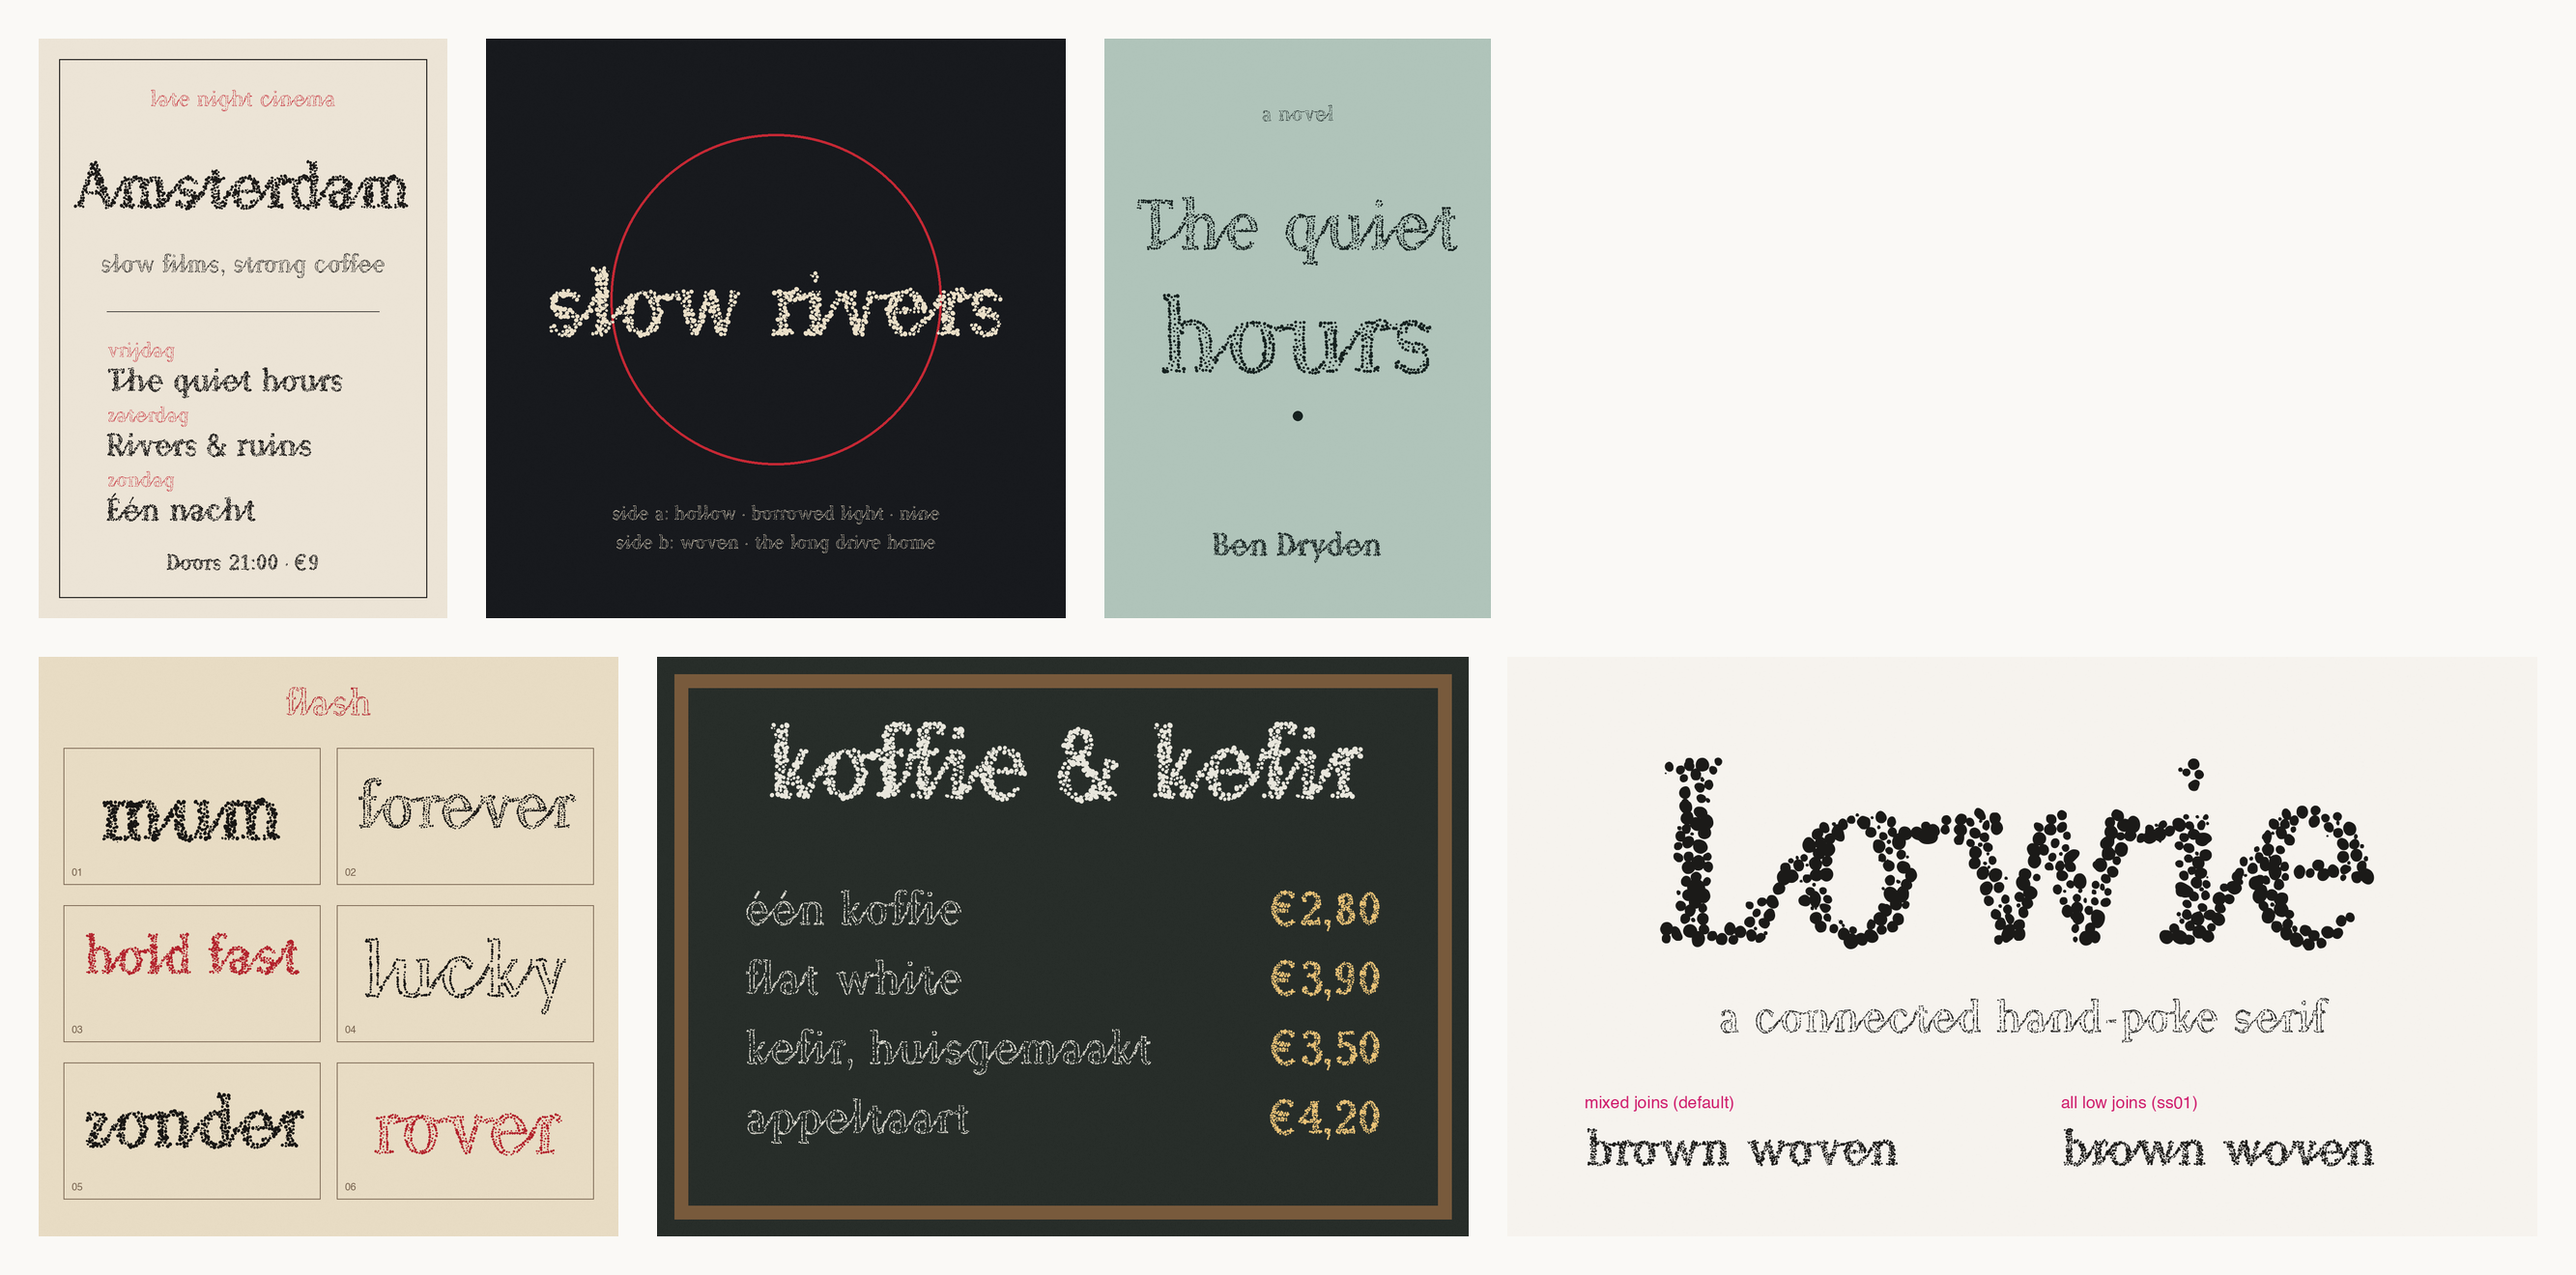
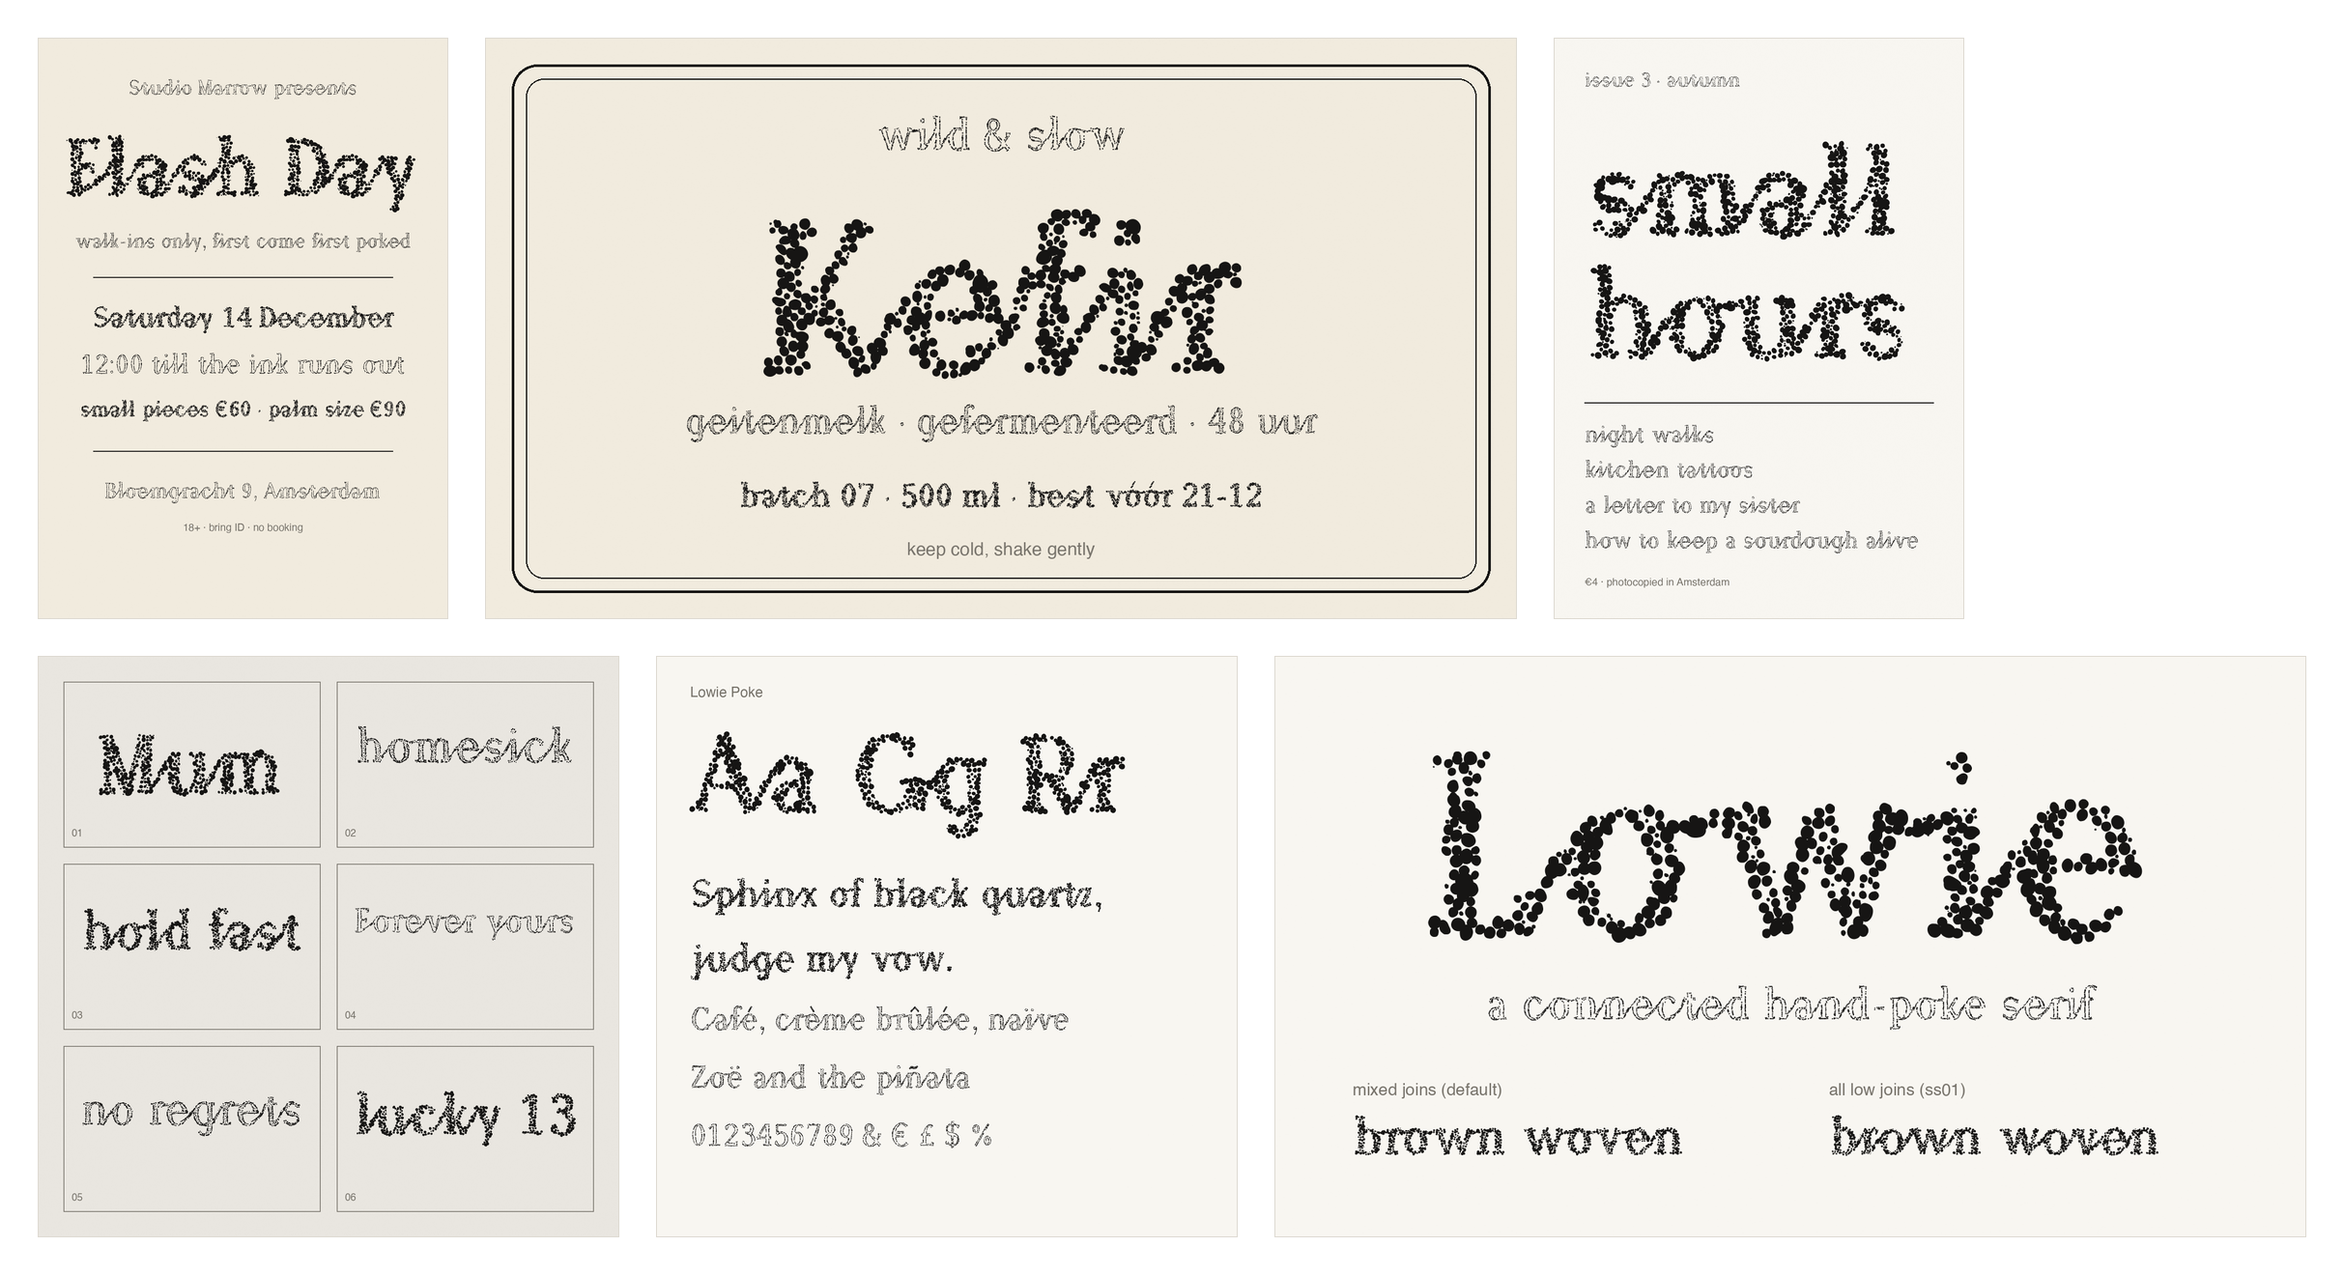
New demos and a light-only site
Demos are now black ink on light paper: a flash day poster, a flash
sheet, a zine cover, a kefir label, a specimen card and the joins card.
The site drops its dark mode and always shows black on warm white.

diff --git a/release/site/index.html b/release/site/index.html
@@ -9,8 +9,7 @@
 @font-face { font-family: "Lowie Poke"; src: url("fonts/Lowie-Poke.woff2") format("woff2"); font-display: swap; }
 @font-face { font-family: "Lowie Poke Shaded"; src: url("fonts/Lowie-PokeShaded.woff2") format("woff2"); font-display: swap; }
 @font-face { font-family: "Lowie Poke Line"; src: url("fonts/Lowie-PokeLine.woff2") format("woff2"); font-display: swap; }
-:root { --paper: #f1ebe0; --ink: #1c1a17; --muted: #6d655a; --red: #b8282f; --line: #d6ccbb; }
-@media (prefers-color-scheme: dark) { :root { --paper: #191816; --ink: #ece4d4; --muted: #9a917f; --red: #e0545a; --line: #34312b; } }
+:root { --paper: #f8f6f1; --ink: #161514; --muted: #6d675e; --red: #161514; --line: #dedad2; color-scheme: light; }
 * { box-sizing: border-box; }
 body { font-synthesis: none; margin: 0; background: var(--paper); color: var(--ink); font: 16px/1.5 ui-sans-serif, system-ui, -apple-system, sans-serif; }
 main { max-width: 1100px; margin: 0 auto; padding: 0 16px 80px; }
@@ -78,7 +77,7 @@ footer a { color: inherit; }
 
 <section>
   <h2>In use</h2>
-  <img src="demos-sheet.png" alt="Lowie on a cinema poster, a record sleeve, a book cover, a tattoo flash sheet, a café board and its own wordmark" loading="lazy">
+  <img src="demos-sheet.png" alt="Lowie on a flash day poster, a kefir label, a zine cover, a tattoo flash sheet, a specimen card and its own wordmark" loading="lazy">
 </section>
 
 <section>

diff --git a/source/demos.py b/source/demos.py
@@ -1,6 +1,8 @@
-"""Mock-ups of Lowie Poke in use. Writes PNGs to ../proofs/demos/."""
+"""Mock-ups of Lowie in use: black ink on light paper. Writes PNGs to ../proofs/demos/.
+
+All names, places and events are made up."""
 from pathlib import Path
-from PIL import Image, ImageDraw, ImageFont, ImageFilter
+from PIL import Image, ImageDraw, ImageFont
 import random
 
 ROOT = Path(__file__).parent.parent
@@ -8,139 +10,145 @@ OUT = ROOT / "proofs" / "demos"
 OUT.mkdir(parents=True, exist_ok=True)
 SANS = "/System/Library/Fonts/Helvetica.ttc"
 
+INK = (22, 21, 20)
+GREY = (120, 116, 108)
+WHITE, CREAM, BONE = (248, 246, 241), (241, 235, 222), (233, 230, 224)
+
 
 def font(style, size):
     return ImageFont.truetype(str(ROOT / "fonts" / f"Lowie-Proto-{style}.ttf"), size,
                               layout_engine=ImageFont.Layout.RAQM)
 
 
-def fit(d, text, style, max_w, start):
+def sans(size):
+    return ImageFont.truetype(SANS, size)
+
+
+def fit(d, text, style, max_w, start, features=None):
     size = start
     while size > 20:
         f = font(style, size)
-        if d.textlength(text, font=f) <= max_w:
+        if d.textlength(text, font=f, features=features) <= max_w:
             return f
         size -= 4
     return font(style, size)
 
 
-def centre(d, y, text, f, fill, W, features=None):
+def centre(d, y, text, f, W, fill=INK, features=None):
     w = d.textlength(text, font=f, features=features)
     d.text(((W - w) / 2, y), text, font=f, fill=fill, features=features)
 
 
-def paper(W, H, colour, grain=10, seed=1):
+def paper(W, H, colour, grain=8, seed=1):
     """Flat colour with a little noise so it reads as printed stock."""
     rnd = random.Random(seed)
     img = Image.new("RGB", (W, H), colour)
     noise = Image.effect_noise((W, H), grain).convert("L")
-    tint = Image.new("RGB", (W, H), tuple(max(0, c - 18) for c in colour))
-    img = Image.composite(tint, img, noise.point(lambda v: 40 if v > 140 + rnd.random() else 0))
-    return img
+    tint = Image.new("RGB", (W, H), tuple(max(0, c - 14) for c in colour))
+    return Image.composite(tint, img, noise.point(lambda v: 36 if v > 140 + rnd.random() else 0))
 
 
-def poster():
+def flash_day():
+    """Poster for a studio flash day."""
     W, H = 1200, 1700
-    img = paper(W, H, (236, 228, 214))
+    img = paper(W, H, CREAM, seed=1)
     d = ImageDraw.Draw(img)
-    ink, red = (28, 26, 24), (196, 40, 52)
-    d.rectangle([60, 60, W - 60, H - 60], outline=ink, width=3)
-    centre(d, 140, "late night cinema", font("PokeLine", 64), red, W)
-    f = fit(d, "Amsterdam", "Poke", W - 200, 300)
-    centre(d, 330, "Amsterdam", f, ink, W)
-    centre(d, 620, "slow films, strong coffee", font("PokeShaded", 72), ink, W)
-    d.line([200, 800, W - 200, 800], fill=ink, width=2)
-    for i, (day, film) in enumerate([("vrijdag", "The quiet hours"), ("zaterdag", "Rivers & ruins"),
-                                     ("zondag", "Één nacht")]):
-        y = 880 + i * 190
-        d.text((200, y), day, font=font("PokeLine", 60), fill=red)
-        d.text((200, y + 70), film, font=font("Poke", 92), fill=ink)
-    centre(d, H - 200, "Doors 21:00 · €9", font("Poke", 64), ink, W)
+    centre(d, 110, "Studio Marrow presents", font("PokeLine", 60), W)
+    centre(d, 250, "Flash Day", fit(d, "Flash Day", "Poke", W - 160, 300), W)
+    centre(d, 560, "walk-ins only, first come first poked", font("PokeShaded", 58), W)
+    d.line([160, 700, W - 160, 700], fill=INK, width=3)
+    rows = [("Saturday 14 December", "Poke"), ("12:00 till the ink runs out", "PokeLine"),
+            ("small pieces €60 · palm size €90", "Poke")]
+    for i, (t, st) in enumerate(rows):
+        centre(d, 770 + i * 140, t, fit(d, t, st, W - 200, 84), W)
+    d.line([160, 1210, W - 160, 1210], fill=INK, width=3)
+    centre(d, 1290, "Bloemgracht 9, Amsterdam", font("PokeLine", 64), W)
+    centre(d, 1420, "18+ · bring ID · no booking", sans(30), W, GREY)
     return img
 
 
-def sleeve():
-    W = H = 1400
-    img = paper(W, W, (24, 26, 30), grain=14, seed=2)
-    d = ImageDraw.Draw(img)
-    cream = (234, 223, 200)
-    d.ellipse([300, 230, 1100, 1030], outline=(196, 40, 52), width=6)
-    f = fit(d, "slow rivers", "Poke", W - 260, 260)
-    centre(d, 520, "slow rivers", f, cream, W)
-    centre(d, 1120, "side a: hollow · borrowed light · nine", font("PokeLine", 46), cream, W)
-    centre(d, 1190, "side b: woven · the long drive home", font("PokeLine", 46), cream, W)
-    return img
-
-
-def flash():
-    """A tattoo flash sheet: words in boxes on aged paper."""
+def flash_sheet():
+    """A sheet of classic tattoo lettering, the way flash is hung in a studio."""
     W, H = 1400, 1400
-    img = paper(W, H, (232, 220, 196), grain=16, seed=3)
+    img = paper(W, H, BONE, grain=12, seed=2)
     d = ImageDraw.Draw(img)
-    ink, red = (24, 22, 20), (178, 34, 44)
-    centre(d, 60, "flash", font("PokeLine", 90), red, W)
-    words = [("mum", "Poke", ink), ("forever", "PokeShaded", ink), ("hold fast", "Poke", red),
-             ("lucky", "PokeLine", ink), ("zonder", "Poke", ink), ("rover", "PokeShaded", red)]
-    for i, (w, style, col) in enumerate(words):
-        cx, cy = 60 + (i % 2) * 660, 220 + (i // 2) * 380
-        d.rectangle([cx, cy, cx + 620, cy + 330], outline=(120, 100, 80), width=2)
-        f = fit(d, w, style, 540, 190)
+    words = [("Mum", "Poke"), ("homesick", "PokeShaded"), ("hold fast", "Poke"),
+             ("Forever yours", "PokeLine"), ("no regrets", "PokeShaded"), ("lucky 13", "Poke")]
+    for i, (w, st) in enumerate(words):
+        cx, cy = 60 + (i % 2) * 660, 60 + (i // 2) * 440
+        d.rectangle([cx, cy, cx + 620, cy + 400], outline=GREY, width=2)
+        f = fit(d, w, st, 540, 200)
         tw = d.textlength(w, font=f)
-        d.text((cx + (620 - tw) / 2, cy + 50), w, font=f, fill=col)
-        d.text((cx + 20, cy + 290), f"{i + 1:02d}", font=ImageFont.truetype(SANS, 24), fill=(120, 100, 80))
+        d.text((cx + (620 - tw) / 2, cy + 90), w, font=f, fill=INK)
+        d.text((cx + 20, cy + 355), f"{i + 1:02d}", font=sans(24), fill=GREY)
     return img
 
 
-def cafe():
-    """A chalkboard café sign."""
-    W, H = 1400, 1000
-    img = paper(W, H, (40, 46, 42), grain=18, seed=4)
+def zine():
+    """A photocopied zine cover."""
+    W, H = 1100, 1560
+    img = paper(W, H, WHITE, grain=14, seed=3)
     d = ImageDraw.Draw(img)
-    chalk, warm = (232, 230, 220), (236, 196, 120)
-    d.rectangle([30, 30, W - 30, H - 30], outline=(120, 90, 60), width=24)
-    centre(d, 90, "koffie & kefir", fit(d, "koffie & kefir", "Poke", W - 240, 170), chalk, W)
-    rows = [("één koffie", "€2,80"), ("flat white", "€3,90"), ("kefir, huisgemaakt", "€3,50"),
-            ("appeltaart", "€4,20")]
-    for i, (item, price) in enumerate(rows):
-        y = 390 + i * 120
-        d.text((150, y), item, font=font("PokeLine", 80), fill=chalk)
-        pw = d.textlength(price, font=font("Poke", 80))
-        d.text((W - 150 - pw, y), price, font=font("Poke", 80), fill=warm)
+    d.text((80, 80), "issue 3 · autumn", font=font("PokeLine", 54), fill=INK)
+    d.text((80, 230), "small", font=fit(d, "small", "Poke", W - 160, 330), fill=INK)
+    d.text((80, 560), "hours", font=fit(d, "hours", "Poke", W - 160, 330), fill=INK)
+    d.line([80, 980, W - 80, 980], fill=INK, width=3)
+    for i, t in enumerate(["night walks", "kitchen tattoos", "a letter to my sister",
+                           "how to keep a sourdough alive"]):
+        d.text((80, 1030 + i * 95), t, font=font("PokeShaded", 62), fill=INK)
+    d.text((80, H - 110), "€4 · photocopied in Amsterdam", font=sans(28), fill=GREY)
     return img
 
 
-def cover():
-    W, H = 1100, 1650
-    img = paper(W, H, (176, 196, 186), grain=10, seed=5)
+def label():
+    """A bottle label for small-batch kefir."""
+    W, H = 1600, 900
+    img = paper(W, H, CREAM, grain=8, seed=4)
     d = ImageDraw.Draw(img)
-    ink = (22, 34, 32)
-    centre(d, 180, "a novel", font("PokeLine", 60), ink, W)
-    f = fit(d, "The quiet", "PokeShaded", W - 160, 240)
-    centre(d, 420, "The quiet", f, ink, W)
-    centre(d, 680, "hours", fit(d, "hours", "PokeShaded", W - 160, 300), ink, W)
-    d.ellipse([W / 2 - 14, 1060, W / 2 + 14, 1088], fill=ink)
-    centre(d, H - 260, "Ben Dryden", font("Poke", 90), ink, W)
+    d.rounded_rectangle([40, 40, W - 40, H - 40], radius=40, outline=INK, width=4)
+    d.rounded_rectangle([62, 62, W - 62, H - 62], radius=28, outline=INK, width=2)
+    centre(d, 110, "wild & slow", font("PokeLine", 70), W)
+    centre(d, 220, "Kefir", fit(d, "Kefir", "Poke", W - 500, 330), W)
+    centre(d, 560, "geitenmelk · gefermenteerd · 48 uur", font("PokeShaded", 58), W)
+    centre(d, 680, "batch 07 · 500 ml · best vóór 21-12", font("Poke", 52), W)
+    centre(d, 780, "keep cold, shake gently", sans(28), W, GREY)
     return img
 
 
-def wordmark():
+def specimen():
+    """A type specimen card: every letter, figures and accents."""
+    W, H = 1400, 1400
+    img = paper(W, H, WHITE, grain=5, seed=5)
+    d = ImageDraw.Draw(img)
+    d.text((80, 70), "Lowie Poke", font=sans(34), fill=GREY)
+    d.text((80, 140), "Aa Gg Rr", font=fit(d, "Aa Gg Rr", "Poke", W - 160, 260), fill=INK)
+    lines = [("Sphinx of black quartz,", "Poke", 92), ("judge my vow.", "Poke", 92),
+             ("Café, crème brûlée, naïve", "PokeShaded", 76), ("Zoë and the piñata", "PokeShaded", 76),
+             ("0123456789 & € £ $ %", "PokeLine", 76)]
+    y = 520
+    for t, st, sz in lines:
+        d.text((80, y), t, font=fit(d, t, st, W - 160, sz), fill=INK)
+        y += sz + 64
+    return img
+
+
+def joins():
     """The font's own wordmark, with the two join settings side by side."""
     W, H = 1600, 900
-    img = paper(W, H, (246, 243, 238), grain=6, seed=6)
+    img = paper(W, H, WHITE, grain=5, seed=6)
     d = ImageDraw.Draw(img)
-    ink, red = (27, 26, 24), (208, 33, 111)
-    centre(d, 80, "Lowie", fit(d, "Lowie", "Poke", W - 400, 400), ink, W)
-    centre(d, 520, "a connected hand-poke serif", font("PokeLine", 70), ink, W)
-    lab = ImageFont.truetype(SANS, 26)
-    d.text((120, 680), "mixed joins (default)", font=lab, fill=red)
-    d.text((120, 720), "brown woven", font=font("Poke", 76), fill=ink)
-    d.text((860, 680), "all low joins (ss01)", font=lab, fill=red)
-    d.text((860, 720), "brown woven", font=font("Poke", 76), fill=ink, features=["ss01"])
+    centre(d, 70, "Lowie", fit(d, "Lowie", "Poke", W - 420, 400), W)
+    centre(d, 500, "a connected hand-poke serif", font("PokeLine", 70), W)
+    d.text((120, 660), "mixed joins (default)", font=sans(26), fill=GREY)
+    d.text((120, 700), "brown woven", font=font("Poke", 80), fill=INK)
+    d.text((860, 660), "all low joins (ss01)", font=sans(26), fill=GREY)
+    d.text((860, 700), "brown woven", font=font("Poke", 80), fill=INK, features=["ss01"])
     return img
 
 
-DEMOS = {"poster": poster, "sleeve": sleeve, "flash": flash, "cafe": cafe, "cover": cover,
-         "wordmark": wordmark}
+DEMOS = {"flash-day": flash_day, "specimen": specimen, "zine": zine,
+         "flash-sheet": flash_sheet, "label": label, "joins": joins}
+ROWS = (("flash-day", "label", "zine"), ("flash-sheet", "specimen", "joins"))
 
 if __name__ == "__main__":
     imgs = {}
@@ -149,15 +157,17 @@ if __name__ == "__main__":
         imgs[name].save(OUT / f"{name}.png")
     # contact sheet, every demo scaled to the same height
     h = 600
-    row1 = [imgs[n] for n in ("poster", "sleeve", "cover")]
-    row2 = [imgs[n] for n in ("flash", "cafe", "wordmark")]
-    scaled = [[im.resize((int(im.width * h / im.height), h), Image.LANCZOS) for im in r] for r in (row1, row2)]
+    scaled = [[imgs[n].resize((int(imgs[n].width * h / imgs[n].height), h), Image.LANCZOS) for n in r]
+              for r in ROWS]
     W = max(sum(im.width for im in r) + 40 * (len(r) + 1) for r in scaled)
-    sheet = Image.new("RGB", (W, 2 * h + 120), (250, 249, 246))
+    sheet = Image.new("RGB", (W, 2 * h + 120), (255, 255, 255))
+    edge = (222, 218, 210)
     for j, r in enumerate(scaled):
         x = 40
         for im in r:
-            sheet.paste(im, (x, 40 + j * (h + 40)))
+            y = 40 + j * (h + 40)
+            sheet.paste(im, (x, y))
+            ImageDraw.Draw(sheet).rectangle([x - 1, y - 1, x + im.width, y + h], outline=edge)
             x += im.width + 40
     sheet.save(OUT / "demos-sheet.png")
     print("ok", list(DEMOS))
